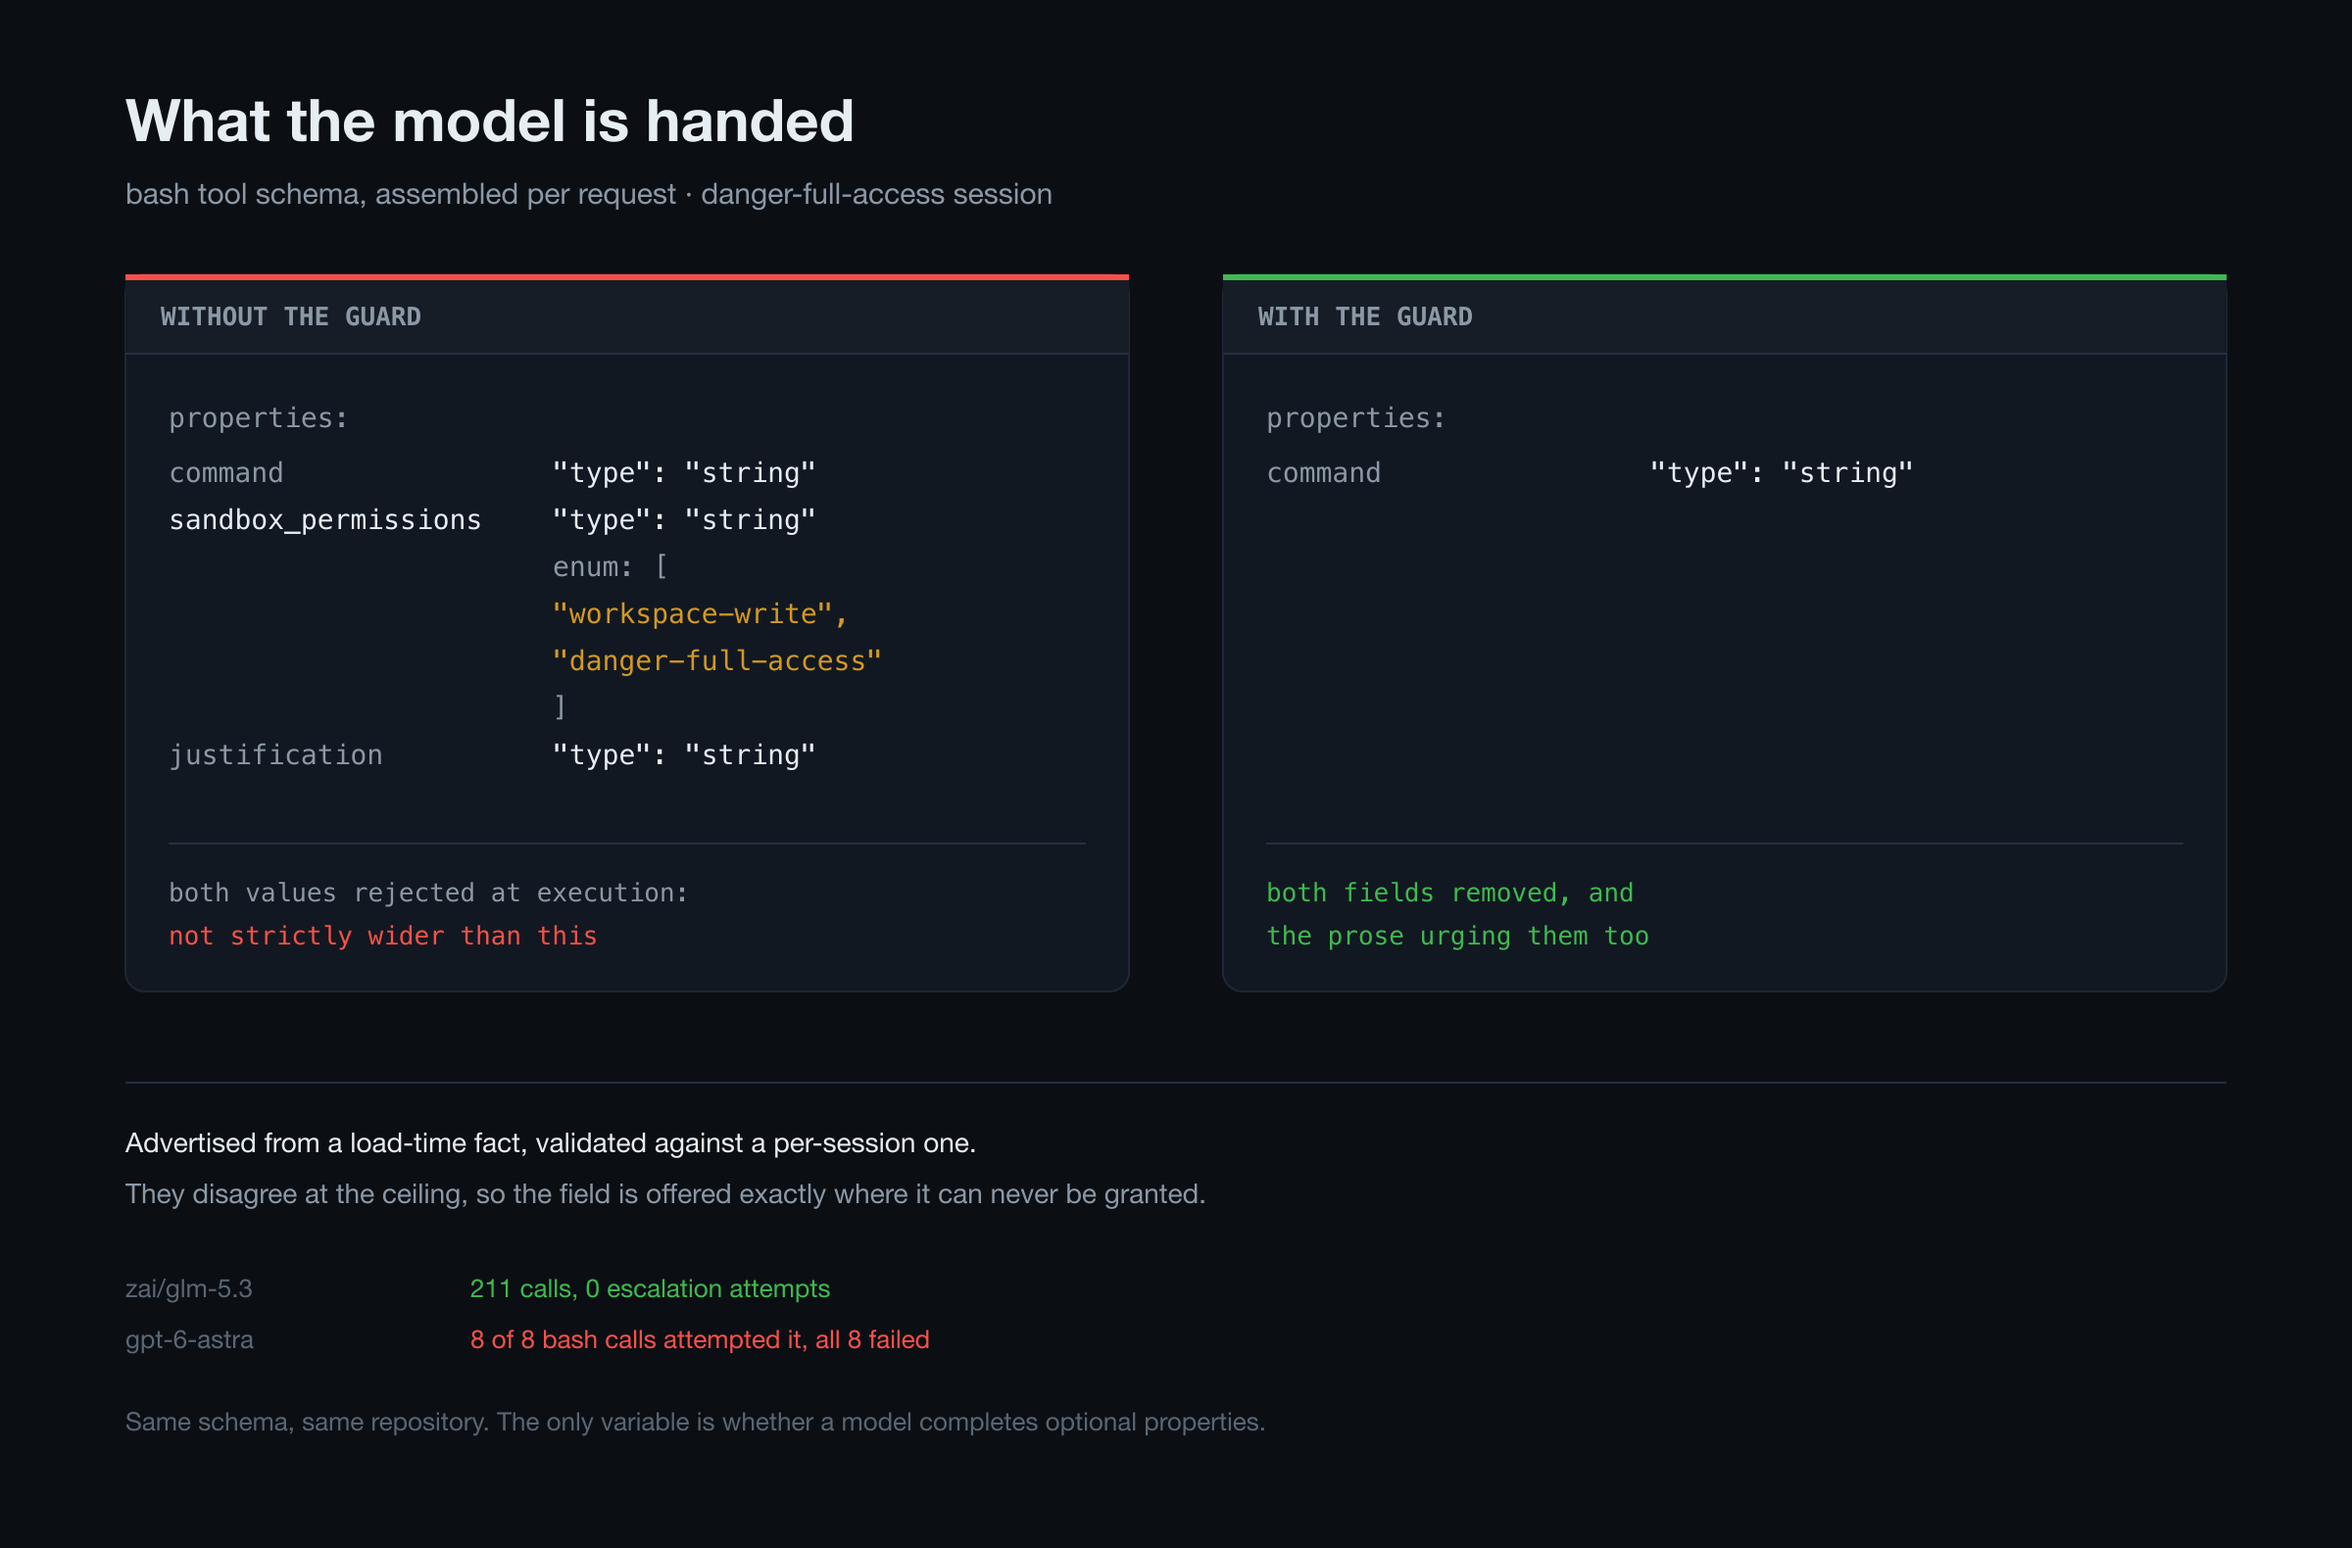
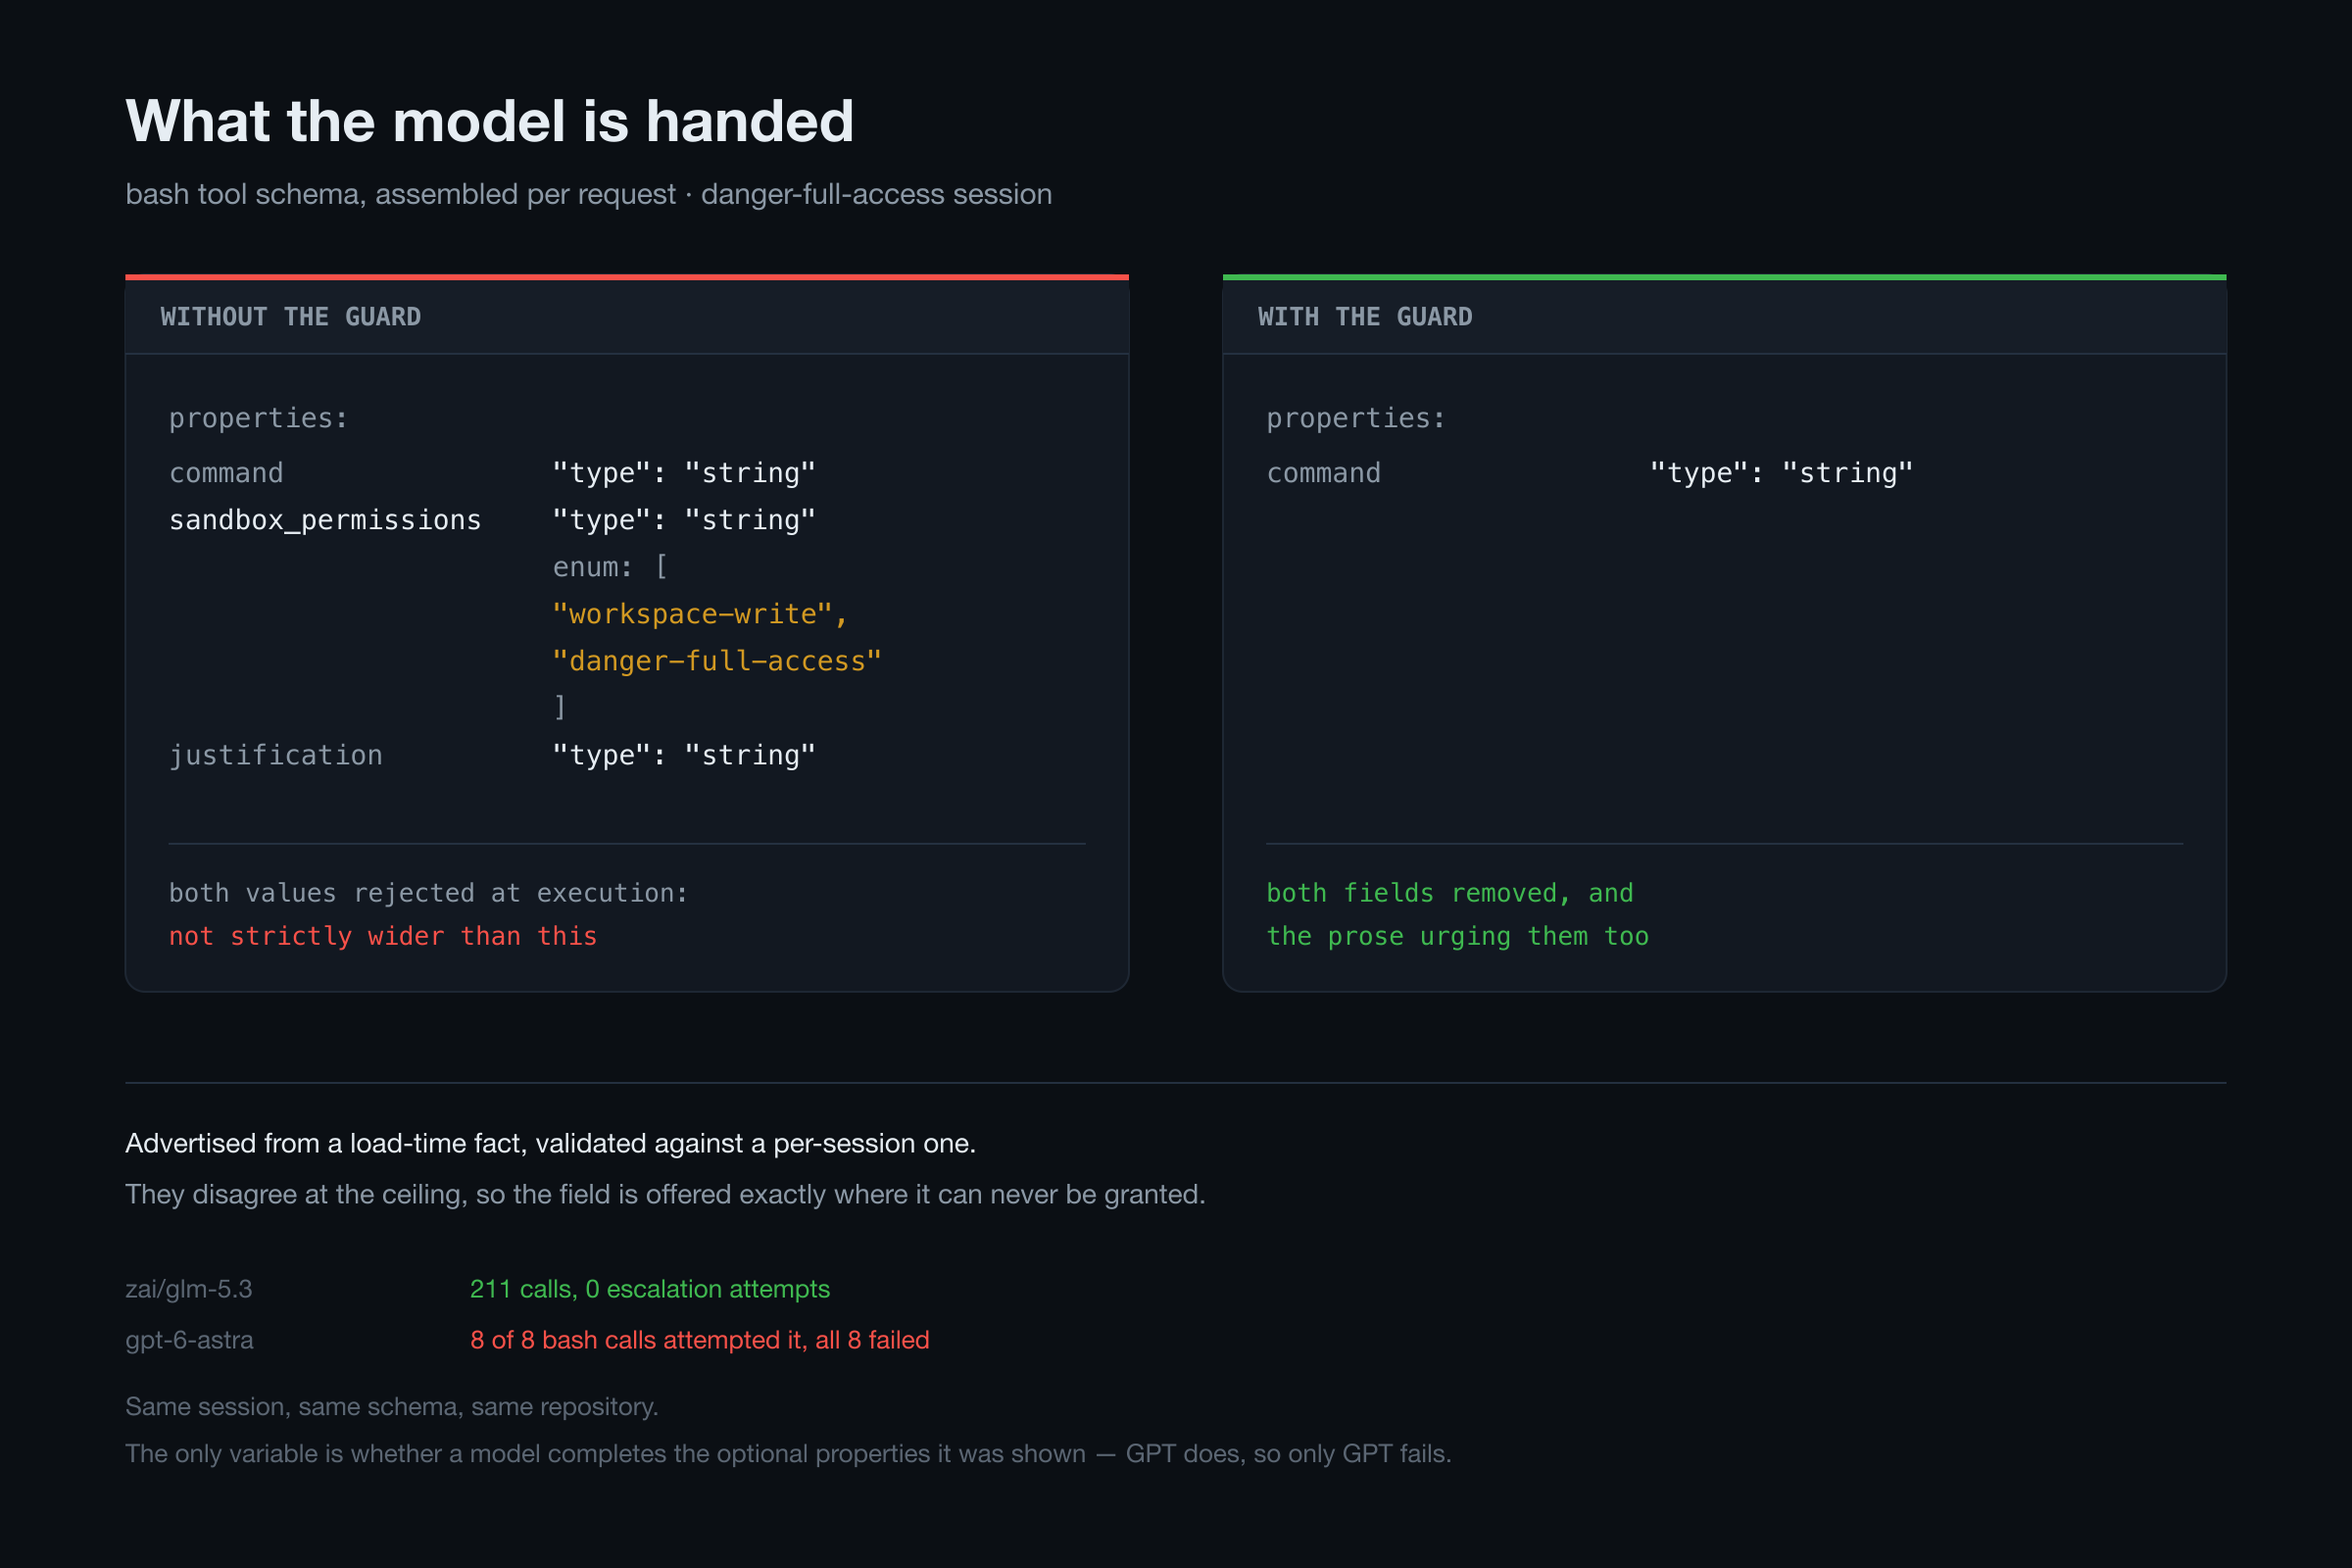
State plainly why this presents as a GPT-specific failure
The original report was 'this happens ONLY with gpt models', and the
mechanism was left implicit. It is a habit colliding with a defect: GPT
completes every optional property in a tool's schema, and the two optional
properties on bash/write/edit are precisely the two a full-access session
can never use. So GPT fills them in on every call and each call is
rejected before it runs.

A model that sends only what a call needs never touches them, which is why
this reads as one model being broken rather than as a schema defect its
habits expose. The GLM column is not a model that tried and succeeded - it
emitted the field zero times in 211 calls.

This also explains the shape of the fix: suppression rather than a clearer
error, because removing the field does not depend on the model's
cooperation the way a prompt instruction does.

diff --git a/README.md b/README.md
@@ -1,11 +1,18 @@
 # dsh-sandbox-escalation-guard
 
-A permanent DeepSeek Harness plugin that stops the sandbox-escalation fields
-being advertised to a model when the calling session cannot grant them.
+A DeepSeek Harness plugin that stops the sandbox-escalation fields being offered
+to a model when the calling session cannot grant them.
 
-It fixes a retry loop that GPT-family models fall into and that no amount of
-prompting can break, because the model is being offered a field whose every
-legal value is rejected.
+**It fixes a GPT-specific failure.** GPT-family models complete every optional
+property in a tool's schema, and the two optional properties on `bash`, `write`
+and `edit` are exactly the two a full-access session can never use. So GPT fills
+them in on every call, every call is rejected before it runs, and the error text
+never says that the fix is to omit them. The turn dies with nothing executed.
+
+A model that sends only what a call needs never sees this — which is why it
+looks like "GPT is broken" while other models are fine in the same session. The
+fix is not a better prompt: it is to stop publishing fields that cannot be
+filled. See [why this presents as GPT-specific](#why-this-presents-as-gpt-is-broken).
 
 ---
 
@@ -48,19 +55,68 @@ Error: sandbox escalation to "workspace-write" is not strictly wider than this c
 Neither text names the only actual repair, which is to **omit both fields**. The
 observed result is the same command retried until the turn dies.
 
+### Why this presents as "GPT is broken"
+
+Nothing here is model-specific in the harness. The difference is a habit, and it
+collides with this defect perfectly:
+
+**GPT-family models populate every optional property in a tool's schema.** Given
+`command` (required) plus `sandbox_permissions` and `justification` (optional),
+they do not send the minimum the call needs — they send a fully-formed instance
+of the schema they were shown. Asked for one string, they fill in three.
+
+That habit is usually harmless. Here it is fatal, because the two optional
+properties are the exact two that a full-access session can never use. So the
+model helpfully completes them on **every** call, each call is rejected before
+anything runs, and the error text points at the justification field rather than
+at the real instruction, which is to leave the fields out. Retrying with the
+same habit produces the same rejection. The turn ends with no command executed
+and no usable signal about why.
+
+A model that only sends what the call needs never touches those fields and never
+sees the bug. From the outside, that looks like one model being broken — same
+session, same harness, same repository, different models, only one of them
+failing.
+
+The fix follows directly from the diagnosis: **if the model completes whatever
+it is shown, stop showing it things it cannot use.** Once both fields are gone
+from the schema, there is nothing left for the habit to complete, and the
+failure mode disappears for the model that was most prone to it — without the
+model needing to know it existed, and without a prompt telling it to be careful,
+which is the kind of instruction a schema-completing model is least likely to
+reliably follow.
+
+This is why the primary fix is suppression rather than a clearer error message.
+A better message asks the model to behave differently; removing the field does
+not depend on the model's cooperation at all. The `tools/pre-execute`
+correction exists only for the residual case — a cached schema, or a model that
+ignores the schema it was given.
+
 ### Evidence
 
-From a live session (`oauth-codex/gpt-6-astra`, effective mode
-`danger-full-access`, approval policy `never`), eight consecutive bash calls and
-eight identical failures:
+From one live session (effective mode `danger-full-access`, approval policy
+`never`), comparing a model that completes optional properties against one that
+does not:
 
 | model | tool calls | emitted `sandbox_permissions` | bash calls | bash + optional field |
 |---|---|---|---|---|
 | `zai/glm-5.3` | 211 | **0** | 86 | 48 |
 | `oauth-codex/gpt-6-astra` | 10 | **8** | 8 | **8** |
 
-Same session, same schema, same repo. The only variable is whether the model
-completes optional properties — which is why this reads as "GPT is broken".
+The GLM column is not "a model that tried and succeeded" — it emitted the field
+**zero** times in 211 calls. It never entered the failure mode, because it sends
+only the properties a call needs. The GPT column emitted it on **every** bash
+call and lost all eight to the same rejection.
+
+Same session, same schema, same repository, same effective mode. The only
+variable is whether the model completes the optional properties it was shown —
+which is why this reads from the outside as "GPT is broken" rather than as a
+schema defect that one model's habits expose.
+
+Confirmed at the wire level too: the `request/header` event for that session
+shows `bash`, `write` and `edit` each advertising `sandbox_permissions` with
+`enum: ["workspace-write","danger-full-access"]`, so the field was genuinely
+published to the model rather than being something it invented.
 
 ---
 
